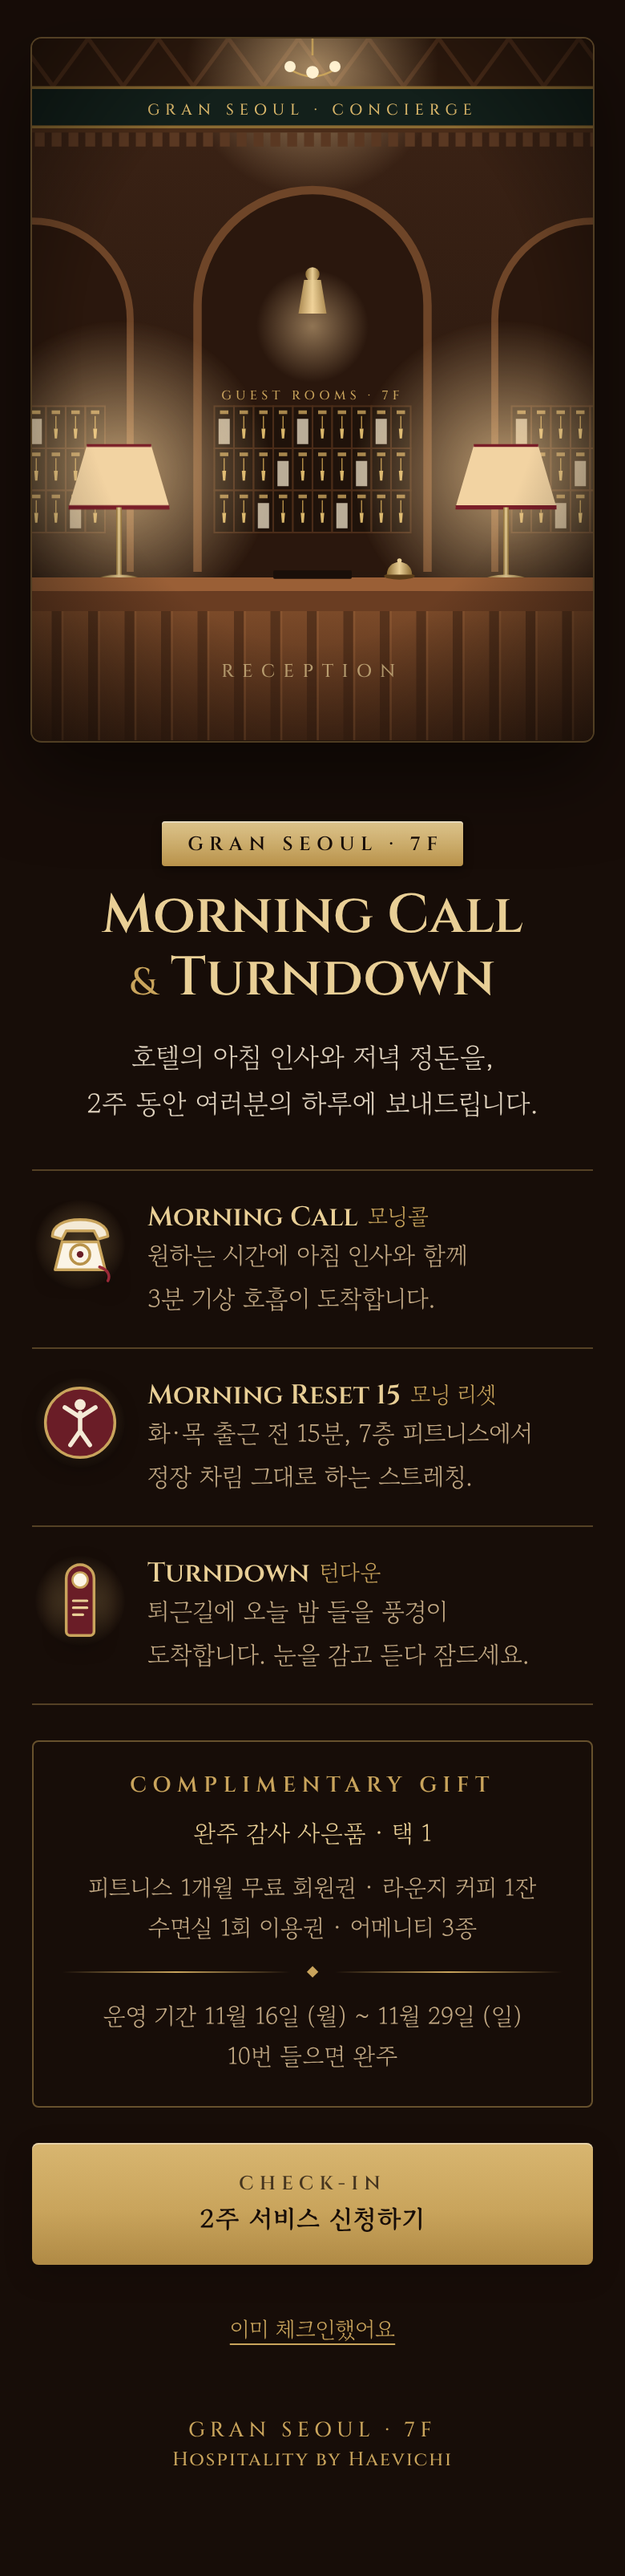
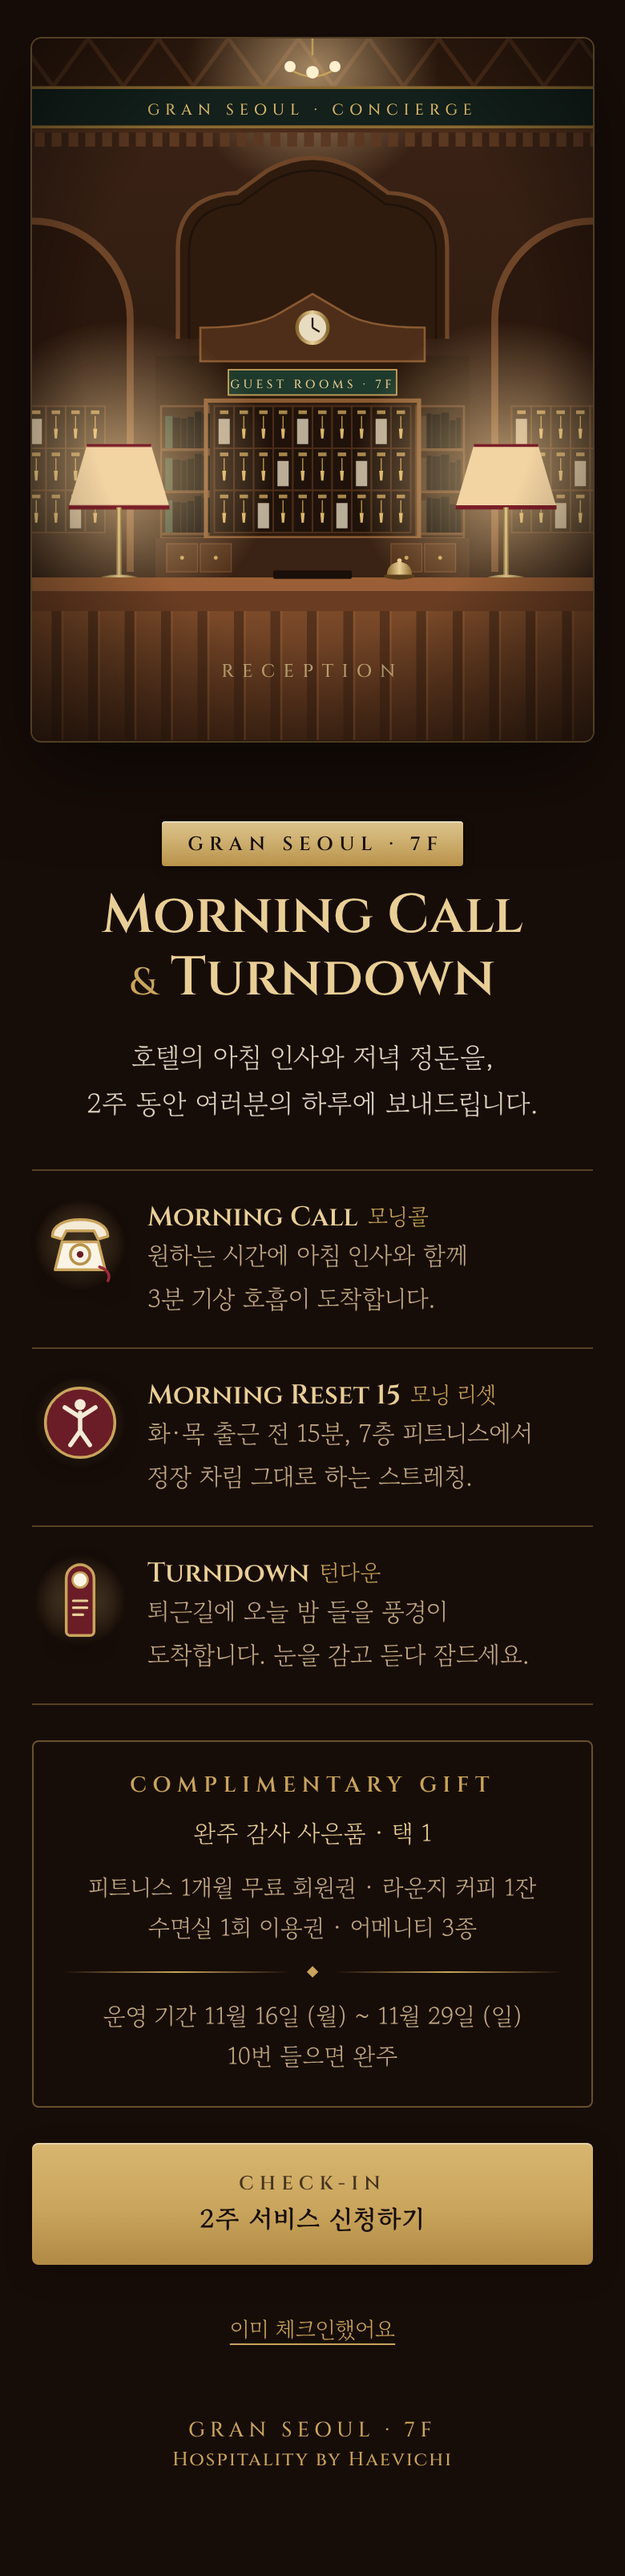
Front desk: replace round-arch key storage with clock-pediment key cabinet
Claude-Session: https://claude.ai/code/session_011z6wvs2Gb5um8vyCmLK585

Changed region(s): [[0.2462, 0.0623, 0.7385, 0.2491]]

diff --git a/index.html b/index.html
@@ -1038,6 +1038,12 @@ function deskSVG(id) {   // id: 그림마다 다른 이름 (같은 이름을 쓰
     }
     return o;
   };
+  // 책장 (보관함 양옆)
+  const shelf = x0 => { let o = `<rect x="${x0}" y="262" width="34" height="94" fill="#24150b" stroke="#5a3820" stroke-width="1.5"/>`;
+    [266, 296, 326].forEach(y => { let x = x0 + 3; while (x < x0 + 30) { const w = 3 + ((x * 7) % 3), h = 20 + ((x * 3) % 6);
+      o += `<rect x="${x}" y="${y + 26 - h}" width="${w}" height="${h}" fill="${['#2c3d5c', '#3a2a1c', '#5c2a2a', '#2f4636'][x % 4]}"/>`; x += w + .6; }
+      o += `<rect x="${x0}" y="${y + 26}" width="34" height="2" fill="#5a3820"/>`; });
+    return o; };
   const lamp = x => `<circle class="lamp-glow" cx="${x}" cy="310" r="110" fill="url(#${id}-glow)"/>
     <path d="M${x - 36} 334 L${x + 36} 334 L${x + 23} 290 L${x - 23} 290 Z" fill="#f2d3a2"/>
     <path d="M${x - 36} 334 L${x + 36} 334" stroke="#7a1e28" stroke-width="3"/><path d="M${x - 23} 290 L${x + 23} 290" stroke="#7a1e28" stroke-width="2"/>
@@ -1064,10 +1070,20 @@ function deskSVG(id) {   // id: 그림마다 다른 이름 (같은 이름을 쓰
   <rect y="64" width="400" height="3" fill="#4a2c19"/>${dent}
   <path d="M-70 380 V200 A70 70 0 0 1 70 200 V380" fill="#2a170d" stroke="#6e4528" stroke-width="5"/>
   <path d="M330 380 V200 A70 70 0 0 1 470 200 V380" fill="#2a170d" stroke="#6e4528" stroke-width="5"/>
-  <path d="M118 380 V190 A82 82 0 0 1 282 190 V380" fill="#2a170d" stroke="#6e4528" stroke-width="6"/>
-  ${cubby(-60, 262, 8, 3)}${cubby(130, 262, 10, 3, true)}${cubby(342, 262, 8, 3)}
-  <text x="200" y="257" text-anchor="middle" font-family="Cinzel,serif" font-size="9" letter-spacing="3" fill="#c9a45c">GUEST ROOMS · 7F</text>
-  <circle cx="200" cy="168" r="5" fill="url(#${id}-brass)"/><path d="M194 172 L206 172 L210 196 L190 196 Z" fill="url(#${id}-brass)"/><circle cx="200" cy="205" r="40" fill="url(#${id}-glow)" opacity=".6"/>
+  ${cubby(-60, 262, 8, 3)}${cubby(342, 262, 8, 3)}
+  <!-- 가운데 장식장: 시계 박공 · 초록 명판 · 열쇠 보관함 · 양옆 책장 -->
+  <circle cx="200" cy="200" r="90" fill="url(#${id}-glow)" opacity=".45"/>
+  <path d="M104 214 V150 Q104 112 146 110 L168 94 Q200 76 232 94 L254 110 Q296 112 296 150 V214" fill="#2e1b0e" stroke="#6e4528" stroke-width="3"/>
+  <path d="M112 214 V152 Q112 120 148 118 L170 102 Q200 86 230 102 L252 118 Q288 120 288 152 V214" fill="none" stroke="#1f1209" stroke-width="1.5"/>
+  <rect x="88" y="226" width="224" height="158" fill="#2a180c"/>
+  <path d="M120 230 L120 206 Q160 206 176 196 L200 182 L224 196 Q240 206 280 206 L280 230 Z" fill="#4e2e18" stroke="#8a5a32" stroke-width="1.5"/>
+  <circle cx="200" cy="206" r="11" fill="#e8dcc0" stroke="url(#${id}-brass)" stroke-width="2.5"/><path d="M200 206v-7M200 206l5 3" stroke="#2a170c" stroke-width="1.3"/>
+  <rect x="140" y="236" width="120" height="18" fill="#1e3a2c" stroke="#c9a45c" stroke-width="1"/>
+  <text x="200" y="249" text-anchor="middle" font-family="Cinzel,serif" font-size="8.5" letter-spacing="2.5" fill="#e9cf96">GUEST ROOMS · 7F</text>
+  ${shelf(92)}${shelf(274)}
+  <rect x="124" y="258" width="152" height="98" fill="none" stroke="#8a5a32" stroke-width="3"/>
+  ${cubby(130, 262, 10, 3, true)}
+  <rect x="88" y="356" width="224" height="28" fill="#3a2214"/>${[96, 120, 256, 280].map(x => `<rect x="${x}" y="360" width="22" height="20" fill="#4e2e18" stroke="#6e4528" stroke-width=".8"/><circle cx="${x + 11}" cy="370" r="1.4" fill="#c9a45c"/>`).join('')}
   ${lamp(62)}${lamp(338)}
   <rect y="384" width="400" height="10" fill="#9a5f36"/><rect y="394" width="400" height="14" fill="#6a3d22"/>
   <rect y="408" width="400" height="92" fill="url(#${id}-wood)"/>${flutes}
